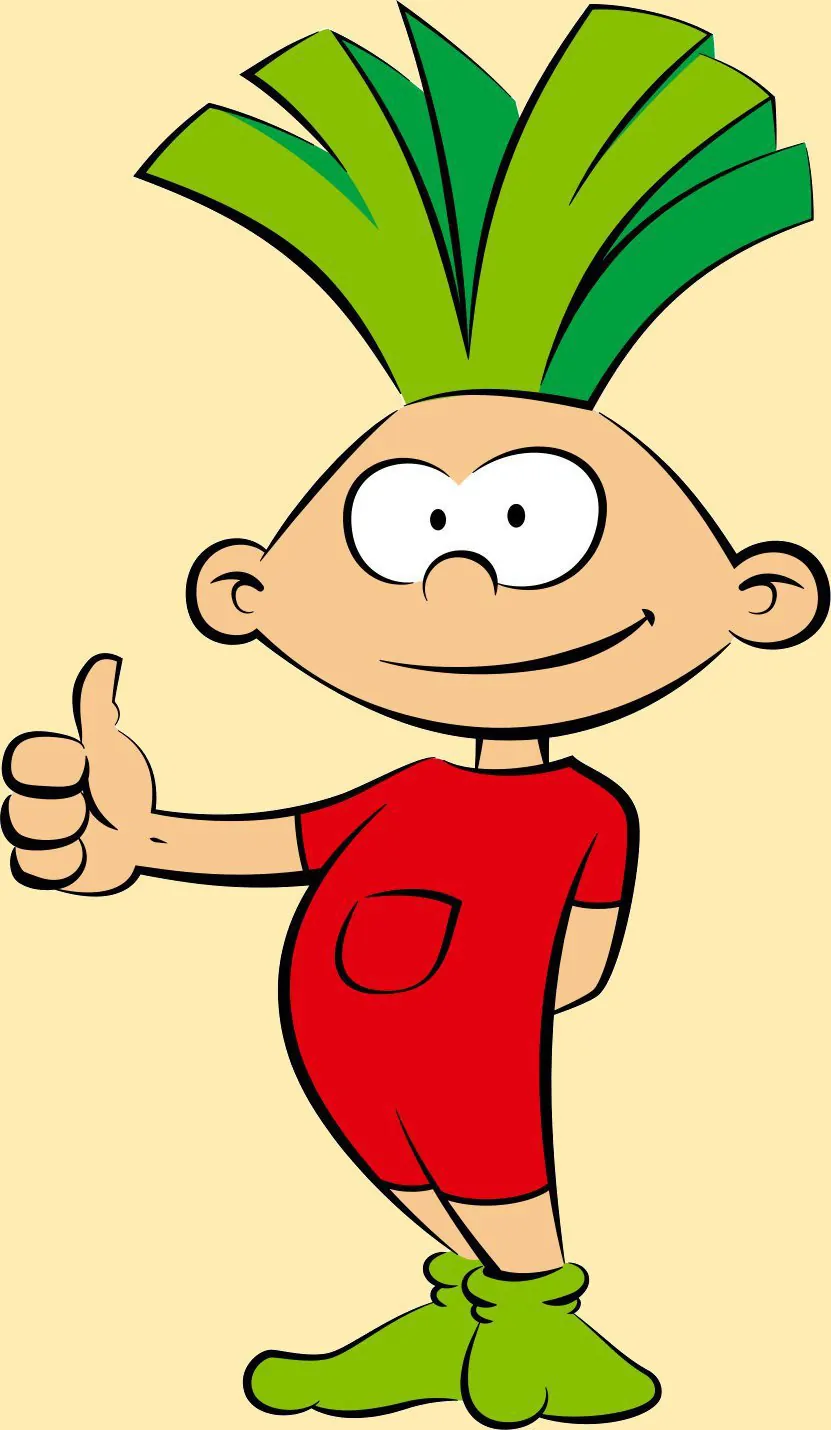
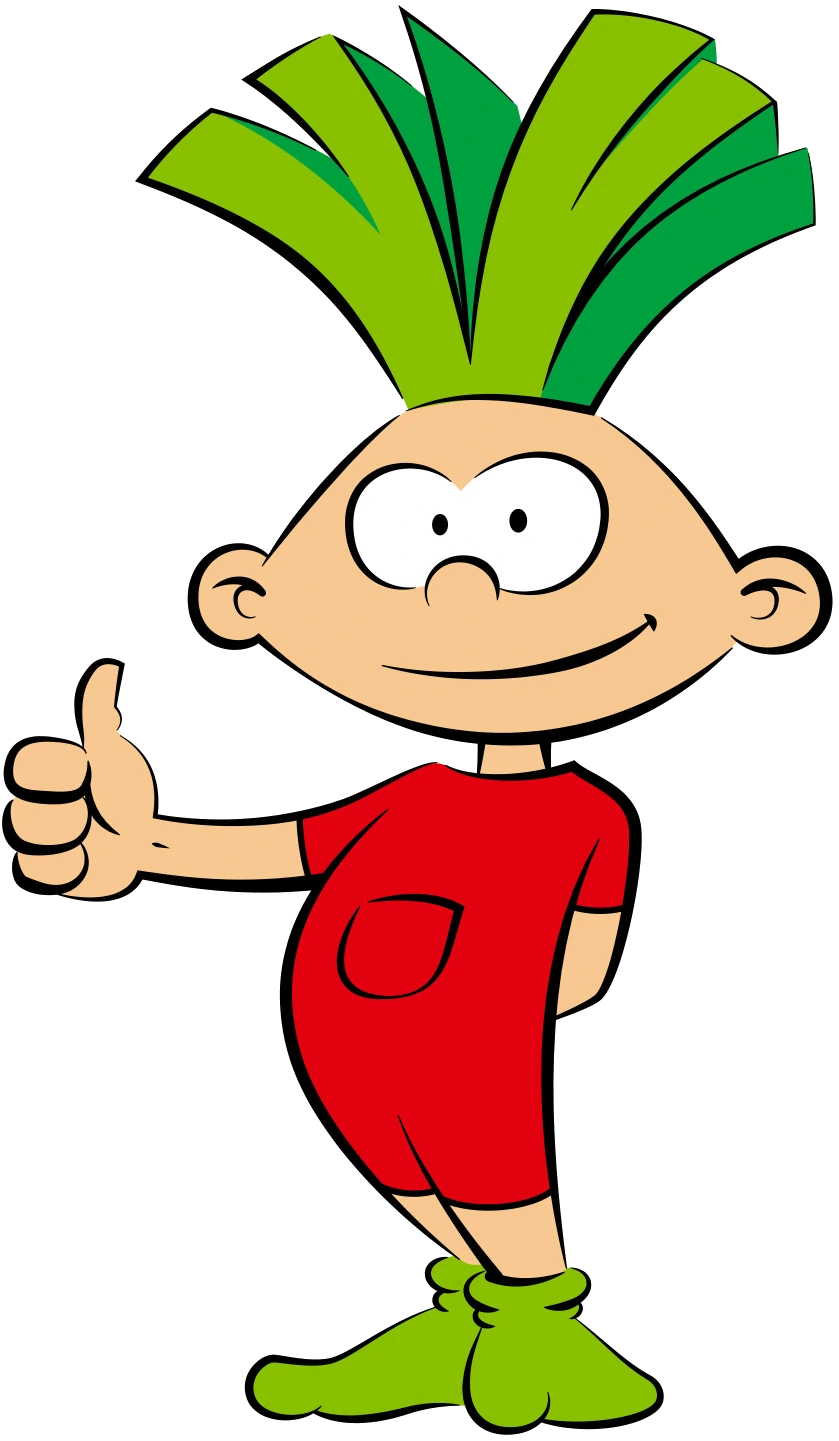
Fix (background of) 'Lesepeter' mascot
Fixes #100

diff --git a/site/snippets/lesetipps/award/lesepeter.php b/site/snippets/lesetipps/award/lesepeter.php
@@ -7,7 +7,7 @@
         <?php
             $image = new File([
                 'parent' => $site,
-                'filename' => 'lesepeter.jpg',
+                'filename' => 'lesepeter.png',
             ]);
             $preset = 'lesepeter.mascot';
             $resized = $image->thumb($preset);
